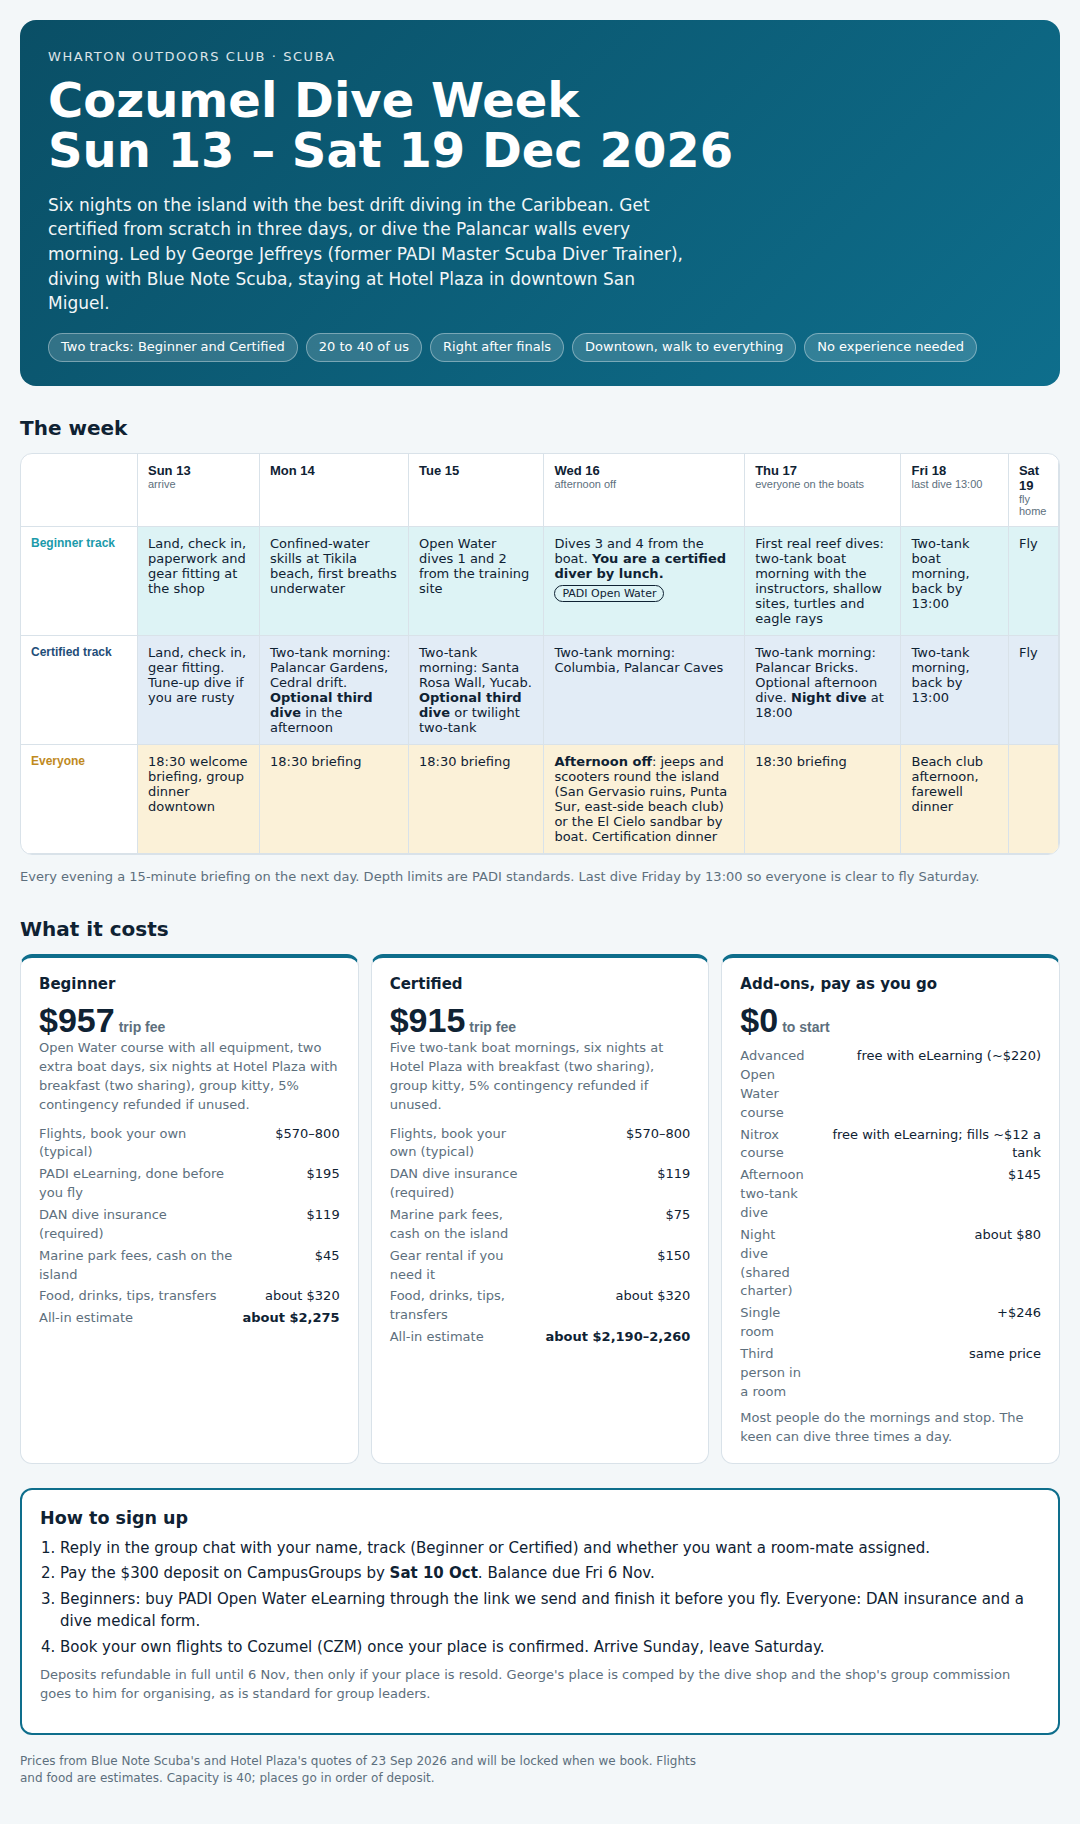
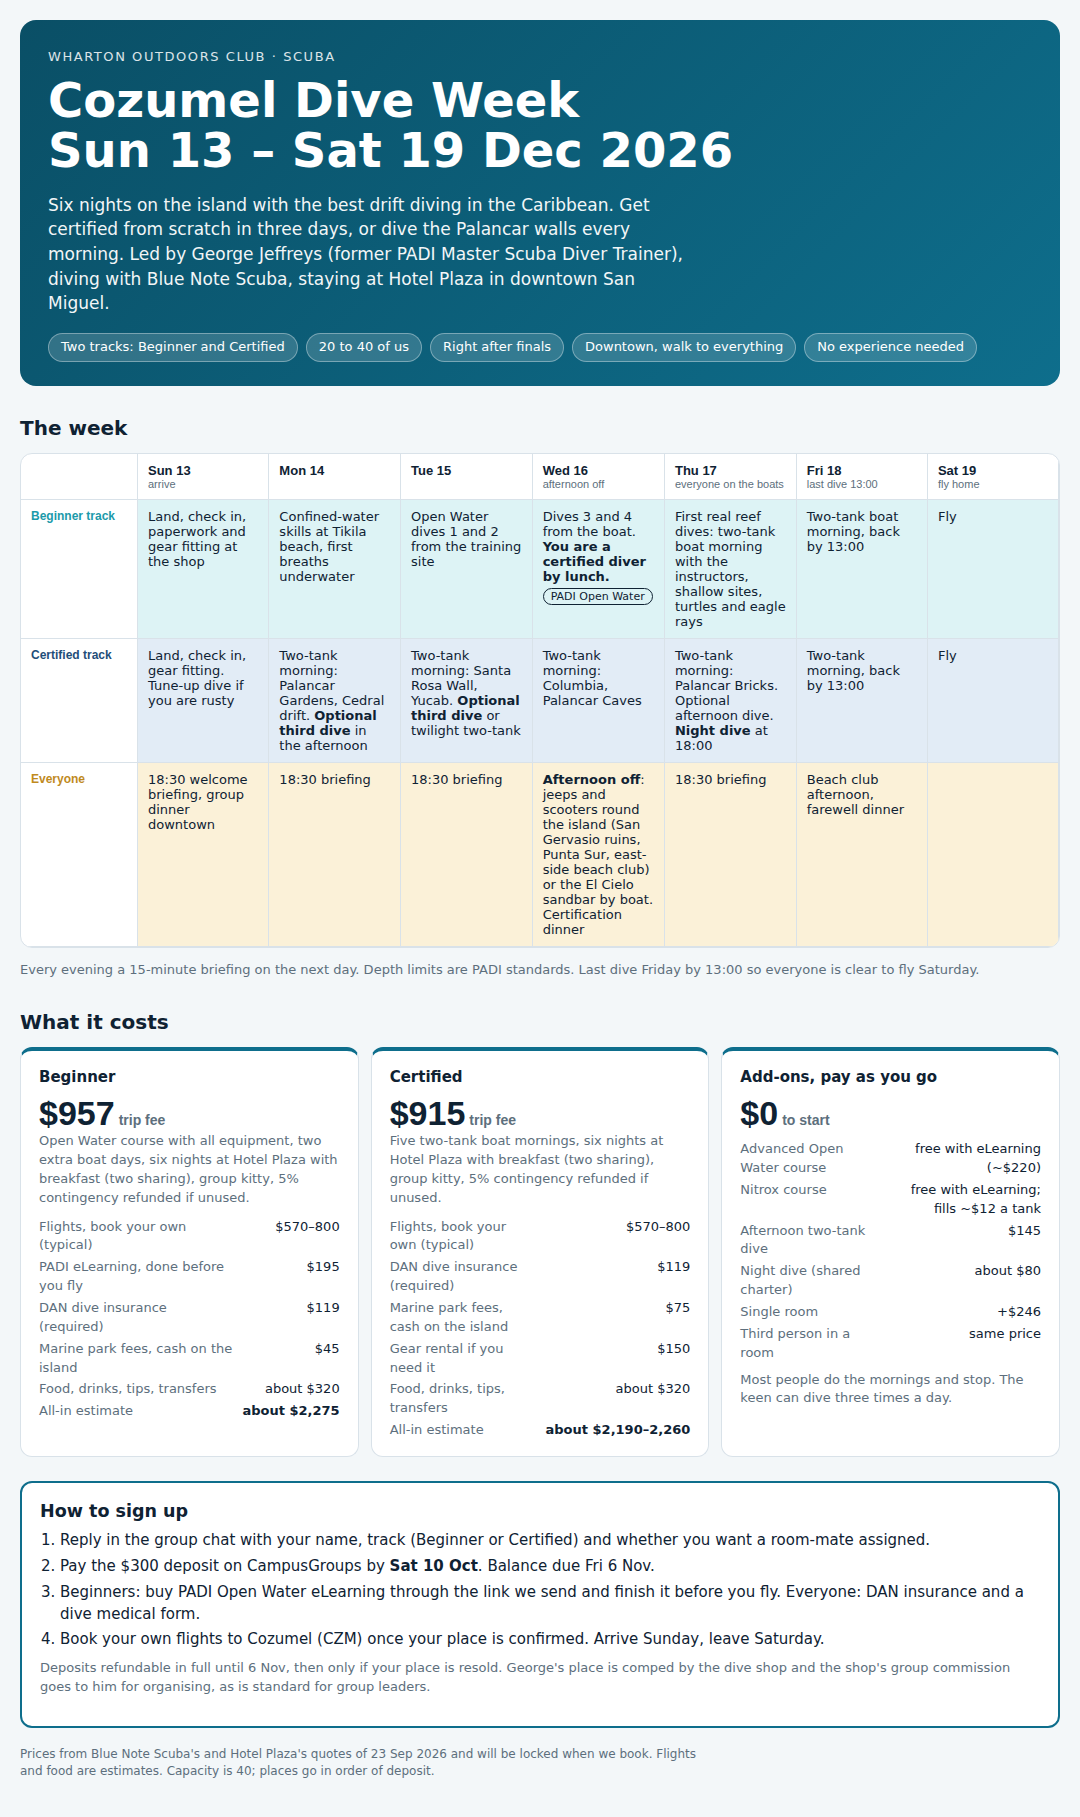
Flyer layout tweak and re-render
Claude-Session: https://claude.ai/code/session_0169irXwrgR4zfoxWYodwM9b

diff --git a/december-plan/cozumel/TRIP_FLYER.html b/december-plan/cozumel/TRIP_FLYER.html
@@ -23,7 +23,7 @@ h2{font-size:20px;font-weight:700;margin:28px 0 10px}
 table{border-collapse:separate;border-spacing:0;width:100%;min-width:860px;font-size:13px;background:var(--card);border:1px solid var(--line);border-radius:12px;overflow:hidden}
 th,td{padding:9px 10px;vertical-align:top;border-bottom:1px solid var(--line);border-right:1px solid var(--line)}
 th{font-family:"Sora",sans-serif;font-weight:700;font-size:13px;text-align:left}
-th.day small{display:block;font-weight:400;color:var(--muted);font-size:11px}
+th.day{min-width:110px} th.day small{display:block;font-weight:400;color:var(--muted);font-size:11px}
 td.track{font-family:"Sora",sans-serif;font-weight:700;font-size:12px;white-space:nowrap;width:96px}
 tr.beg td.track{color:var(--beg)} tr.cert td.track{color:var(--cert)} tr.all td.track{color:var(--all)}
 tr.beg td:not(.track){background:var(--beg-soft)} tr.cert td:not(.track){background:var(--cert-soft)} tr.all td:not(.track){background:var(--all-soft)}
@@ -33,7 +33,7 @@ td b{font-weight:600}
 .price .card{border-top:4px solid var(--sea)}
 .price .big{font-family:"Sora",sans-serif;font-size:34px;font-weight:800;line-height:1;margin:4px 0 2px;font-variant-numeric:tabular-nums}
 .price .big small{font-size:14px;font-weight:600;color:var(--muted);margin-left:4px}
-.price dl{display:grid;grid-template-columns:1fr auto;gap:3px 10px;margin:10px 0 0;font-size:13px}
+.price dl{display:grid;grid-template-columns:minmax(140px,1fr) auto;gap:3px 10px;margin:10px 0 0;font-size:13px}
 .price dt{color:var(--muted)}.price dd{margin:0;text-align:right;font-variant-numeric:tabular-nums}
 .price dd.total{font-weight:700}
 .cta{background:var(--card);border:2px solid var(--sea);border-radius:12px;padding:16px 18px;margin-top:24px}
